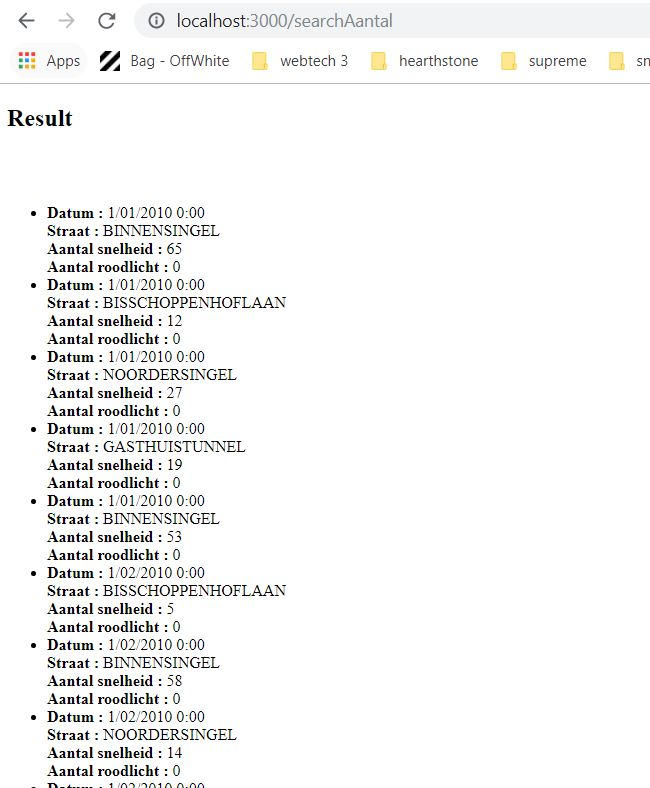
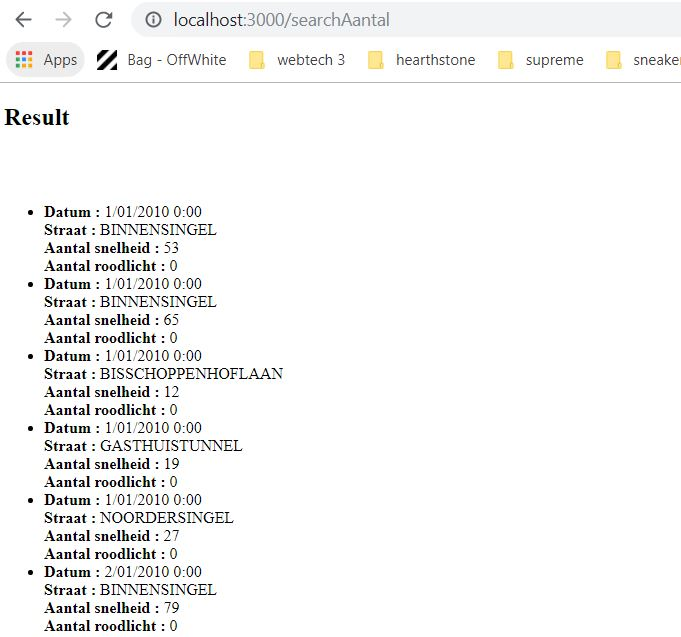
Implemented the right sorting way

Changed region(s): [[0.0308, 0.2386, 0.4308, 1.0], [0.0, 0.0, 1.0, 0.2088], [0.0308, 0.0, 0.0615, 0.0298]]

diff --git a/Oefening2/server.js b/Oefening2/server.js
@@ -25,9 +25,9 @@ app.get('', (req, res) =>{
 app.get('/list', (req, res) =>{
     db.collection('overtredingen').find().toArray((err, result) => {
         if(err) return console.log(err)
-        result.sort(function (a, b) {
-            return (a.datum_vaststelling < b.datum_vaststelling) ? -1 : 1;
-          });
+          result.sort(function(a, b){
+            return  a.datum_vaststelling <b.datum_vaststelling ? -1 : (a.opnameplaats_straat < b.opnameplaats_straat) ? -1 : (a.opnameplaats_straat > b.opnameplaats_straat) ? 1 : 0;
+        });
         res.render('list.ejs', {overtreding: result})
     })
 })
@@ -43,9 +43,9 @@ app.post('/searchStraat', (req, res) => {
         if(result == '') 
             res.render("search_not_found.ejs", {})
         else 
-        result.sort(function (a, b) {
-            return (a.datum_vaststelling < b.datum_vaststelling) ? -1 : 1;
-          });
+        result.sort(function(a, b){
+            return  a.datum_vaststelling <b.datum_vaststelling ? -1 : (a.opnameplaats_straat < b.opnameplaats_straat) ? -1 : (a.opnameplaats_straat > b.opnameplaats_straat) ? 1 : 0;
+        });
         res.render("search_result.ejs", {overtreding: result})
     });
 })
@@ -61,9 +61,9 @@ app.post('/searchAantal', (req, res) => {
         if(result == '') 
             res.render("search_not_found.ejs", {})
         else 
-        result.sort(function (a, b) {
-            return (a.datum_vaststelling < b.datum_vaststelling) ? -1 : 1;
-          });
+        result.sort(function(a, b){
+            return  a.datum_vaststelling <b.datum_vaststelling ? -1 : (a.opnameplaats_straat < b.opnameplaats_straat) ? -1 : (a.opnameplaats_straat > b.opnameplaats_straat) ? 1 : 0;
+        });
         res.render("search_result_aantal.ejs", {overtreding: result})
     });
 })
